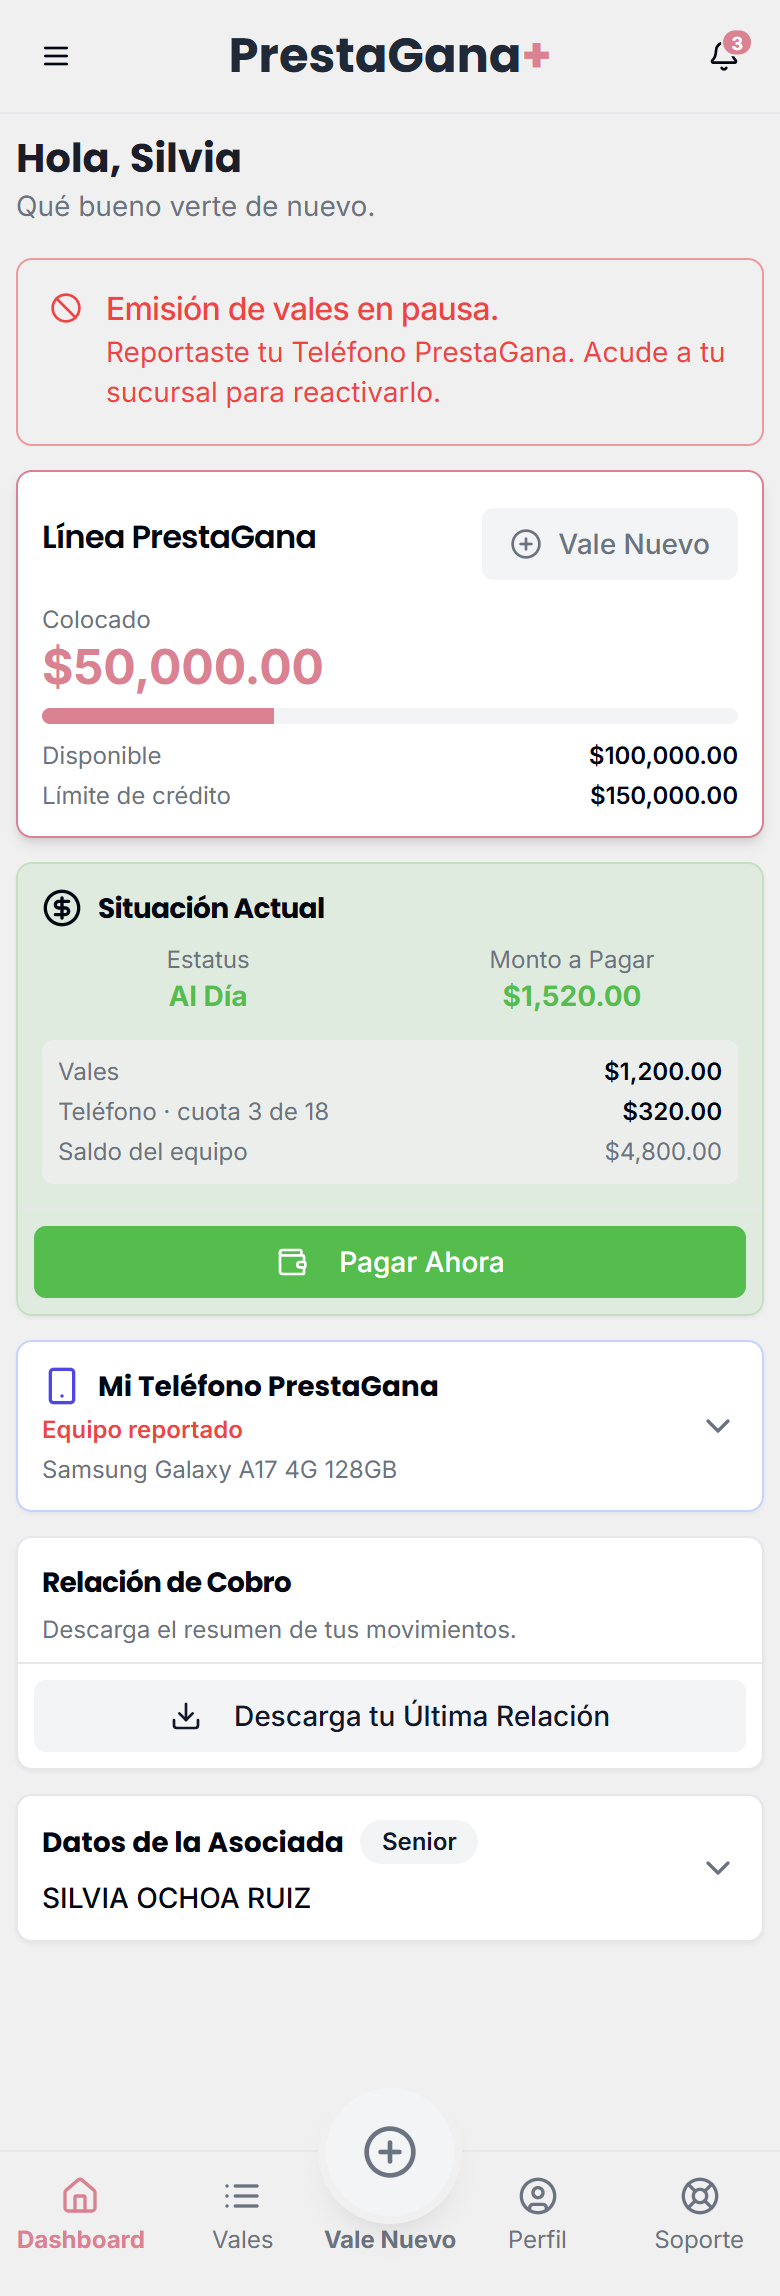
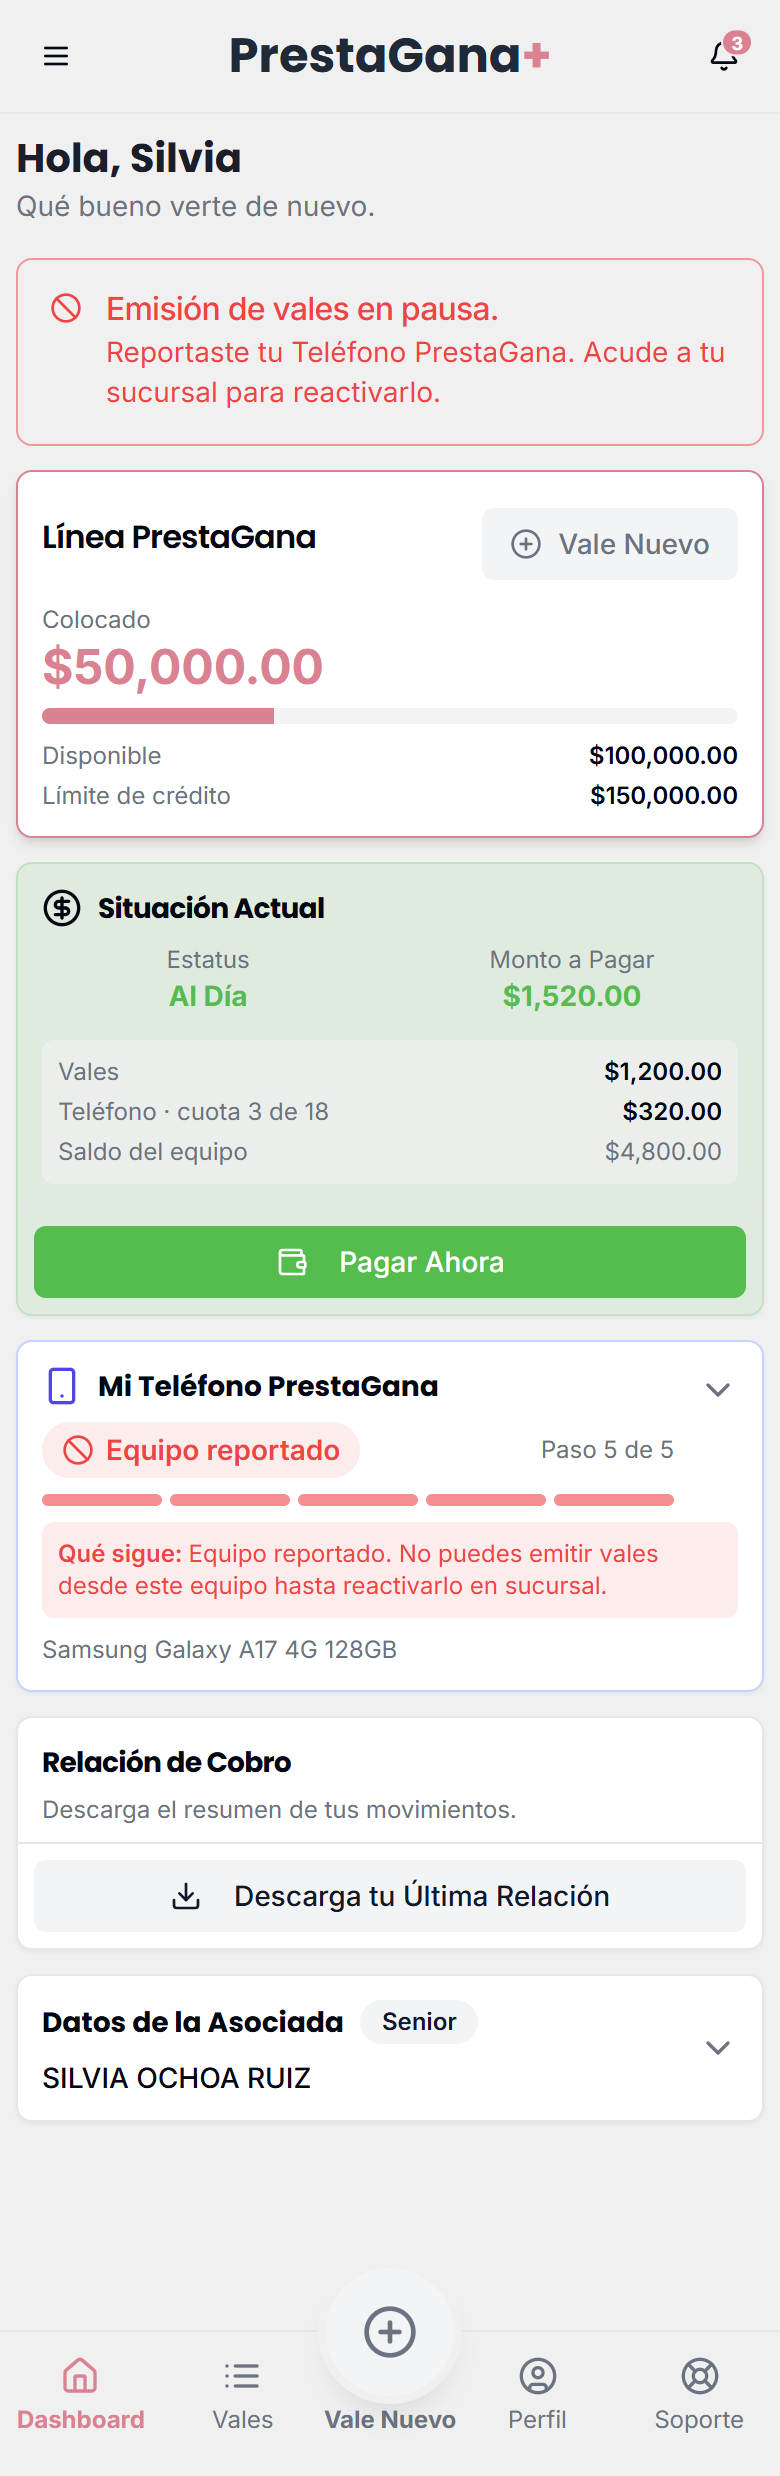
Show the phone stage clearly in the collapsed tracker
- Collapsed card shows the stage in a pill (red when reported), "Paso n
  de 5", a five-segment progress bar, "Que sigue" and the model.
- Expanded card keeps folio, the five steps and the IMEI.
- Tests and spec updated; after screenshots include 1000007 and 1000017.

diff --git a/src/components/phone-tracker.tsx b/src/components/phone-tracker.tsx
@@ -15,9 +15,28 @@ const STEPS: { status: Exclude<PhoneRequestStatus, 'CANCELADO'>; label: string; 
   { status: 'ACTIVO', label: 'Activo', todo: 'Tu equipo está activo. Desde ahora tus vales se emiten desde él.' },
 ];
 
+/** Barra de 5 segmentos: la etapa se ve de un vistazo con la tarjeta colapsada. */
+function StepBar({ currentIndex, danger }: { currentIndex: number; danger: boolean }) {
+  return (
+    <span className="flex gap-1" aria-hidden="true">
+      {STEPS.map((step, index) => (
+        <span
+          key={step.status}
+          className={cn(
+            'h-1.5 flex-1 rounded-full',
+            index > currentIndex && 'bg-indigo-100',
+            index <= currentIndex && (danger ? 'bg-destructive/60' : 'bg-indigo-600'),
+            index === currentIndex && !danger && currentIndex < STEPS.length - 1 && 'bg-indigo-400'
+          )}
+        />
+      ))}
+    </span>
+  );
+}
+
 /**
  * Tarjeta del dashboard: solo aparece si hay solicitud o equipo.
- * Colapsada por default: muestra el resumen (estado actual); al tocarla, el avance completo.
+ * Colapsada por default: etapa, avance, qué sigue y modelo. Al tocarla: folio, los 5 pasos e IMEI.
  */
 export function PhoneTrackerCard({ phoneState }: { phoneState: PhoneState | null }) {
   if (!phoneState || (!phoneState.solicitud && !phoneState.dispositivo)) return null;
@@ -27,99 +46,101 @@ export function PhoneTrackerCard({ phoneState }: { phoneState: PhoneState | null
   const reportedLabel = dispositivo?.estatus === 'REVOCADO' ? 'Equipo desactivado' : 'Equipo reportado';
   // Con equipo entregado el avance llega a Activo aunque la solicitud no lo diga.
   const current: PhoneRequestStatus | undefined = dispositivo ? 'ACTIVO' : solicitud?.estatus;
+  const cancelled = current === 'CANCELADO';
   const currentIndex = STEPS.findIndex((step) => step.status === current);
-
-  let summary: { text: string; tone: 'normal' | 'muted' | 'danger' };
-  if (current === 'CANCELADO') summary = { text: 'Solicitud cancelada', tone: 'muted' };
-  else if (reported) summary = { text: reportedLabel, tone: 'danger' };
-  else if (currentIndex >= 0) summary = { text: `${STEPS[currentIndex].label} · paso ${currentIndex + 1} de ${STEPS.length}`, tone: 'normal' };
-  else summary = { text: 'En proceso', tone: 'muted' };
+  const stageLabel = cancelled ? 'Solicitud cancelada' : reported ? reportedLabel : currentIndex >= 0 ? STEPS[currentIndex].label : 'En proceso';
 
   return (
     <Card className="shadow-sm border-indigo-200" data-testid="phone-tracker">
       <Collapsible>
         <CollapsibleTrigger
-          className="group flex min-h-11 w-full items-center justify-between gap-3 rounded-lg p-3 text-left focus-visible:outline-none focus-visible:ring-2 focus-visible:ring-ring"
+          className="group flex min-h-11 w-full items-start justify-between gap-3 rounded-lg p-3 pb-2 text-left focus-visible:outline-none focus-visible:ring-2 focus-visible:ring-ring"
           data-testid="phone-tracker-toggle"
         >
-          <span className="min-w-0 space-y-1">
+          <span className="min-w-0 flex-1 space-y-2">
             <span className="flex items-center gap-2 font-headline text-sm font-bold">
               <Smartphone className="h-5 w-5 flex-shrink-0 text-indigo-600" />
               Mi Teléfono PrestaGana
             </span>
-            <span
-              className={cn(
-                'block text-xs',
-                summary.tone === 'normal' && 'font-semibold text-indigo-900',
-                summary.tone === 'muted' && 'text-muted-foreground',
-                summary.tone === 'danger' && 'font-semibold text-destructive'
+            <span className="flex items-center justify-between gap-2">
+              <span
+                className={cn(
+                  'inline-flex items-center gap-1.5 rounded-full px-2.5 py-1 text-sm font-semibold',
+                  cancelled && 'bg-muted text-muted-foreground',
+                  reported && 'bg-destructive/10 text-destructive',
+                  !cancelled && !reported && 'bg-indigo-100 text-indigo-900'
+                )}
+              >
+                {cancelled && <XCircle className="h-4 w-4" />}
+                {reported && <Ban className="h-4 w-4" />}
+                {!cancelled && !reported && currentIndex === STEPS.length - 1 && <Check className="h-4 w-4" />}
+                <span data-testid="phone-tracker-summary">{stageLabel}</span>
+              </span>
+              {!cancelled && currentIndex >= 0 && (
+                <span className="flex-shrink-0 text-xs text-muted-foreground" data-testid="phone-tracker-step">
+                  Paso {currentIndex + 1} de {STEPS.length}
+                </span>
               )}
-              data-testid="phone-tracker-summary"
-            >
-              {summary.text}
             </span>
-            {dispositivo && <span className="block truncate text-xs text-muted-foreground">{dispositivo.modelo}</span>}
+            {!cancelled && currentIndex >= 0 && <StepBar currentIndex={currentIndex} danger={reported} />}
           </span>
-          <ChevronDown className="h-5 w-5 flex-shrink-0 text-muted-foreground transition-transform duration-200 group-data-[state=open]:rotate-180" />
+          <ChevronDown className="mt-0.5 h-5 w-5 flex-shrink-0 text-muted-foreground transition-transform duration-200 group-data-[state=open]:rotate-180" />
         </CollapsibleTrigger>
-        <CollapsibleContent className="overflow-hidden data-[state=closed]:animate-collapsible-up data-[state=open]:animate-collapsible-down">
-          <div className="space-y-3 p-3 pt-0">
-            {solicitud && <p className="text-xs text-muted-foreground">Folio {solicitud.folio}</p>}
-            {current === 'CANCELADO' ? (
-              <p className="flex items-start gap-2 text-xs text-muted-foreground" data-testid="phone-tracker-cancelled">
-                <XCircle className="h-4 w-4 flex-shrink-0 text-destructive" />
-                Tu solicitud fue cancelada. Si quieres el equipo, puedes solicitarlo de nuevo desde Vale Nuevo → Préstamo Personal.
+
+        {/* Siempre visible: lo que la asociada tiene que hacer y qué equipo es. */}
+        <div className="space-y-2 px-3 pb-3">
+          {cancelled ? (
+            <p className="text-xs text-muted-foreground" data-testid="phone-tracker-cancelled">
+              Si quieres el equipo, puedes solicitarlo de nuevo desde Vale Nuevo → Préstamo Personal.
+            </p>
+          ) : reported ? (
+            <p className="rounded-md bg-destructive/10 p-2 text-xs text-destructive" data-testid="phone-reported">
+              <span className="font-semibold">Qué sigue: </span>
+              {reportedLabel}. No puedes emitir vales desde este equipo hasta reactivarlo en sucursal.
+            </p>
+          ) : (
+            currentIndex >= 0 && (
+              <p className="rounded-md bg-indigo-50 p-2 text-xs text-indigo-900" data-testid="phone-tracker-todo">
+                <span className="font-semibold">Qué sigue: </span>
+                {STEPS[currentIndex].todo}
               </p>
-            ) : (
-              <>
-                <ol className="space-y-1.5">
-                  {STEPS.map((step, index) => {
-                    const done = index < currentIndex;
-                    const active = index === currentIndex;
-                    return (
-                      <li
-                        key={step.status}
-                        aria-current={active ? 'step' : undefined}
-                        data-testid={active ? 'phone-tracker-current' : undefined}
-                        className={cn('flex items-center gap-2 text-xs', active ? 'font-semibold text-indigo-900' : 'text-muted-foreground')}
+            )
+          )}
+          {dispositivo && <p className="truncate text-xs text-muted-foreground">{dispositivo.modelo}</p>}
+        </div>
+
+        <CollapsibleContent className="overflow-hidden data-[state=closed]:animate-collapsible-up data-[state=open]:animate-collapsible-down">
+          <div className="space-y-3 border-t p-3" data-testid="phone-tracker-details">
+            {solicitud && <p className="text-xs text-muted-foreground">Folio {solicitud.folio}</p>}
+            {!cancelled && (
+              <ol className="space-y-1.5">
+                {STEPS.map((step, index) => {
+                  const done = index < currentIndex;
+                  const active = index === currentIndex;
+                  return (
+                    <li
+                      key={step.status}
+                      aria-current={active ? 'step' : undefined}
+                      data-testid={active ? 'phone-tracker-current' : undefined}
+                      className={cn('flex items-center gap-2 text-xs', active ? 'font-semibold text-indigo-900' : 'text-muted-foreground')}
+                    >
+                      <span
+                        className={cn(
+                          'flex h-5 w-5 flex-shrink-0 items-center justify-center rounded-full border text-[10px]',
+                          done && 'border-indigo-600 bg-indigo-600 text-white',
+                          active && 'border-indigo-600 bg-indigo-100 text-indigo-900 ring-2 ring-indigo-300',
+                          !done && !active && 'border-muted-foreground/40'
+                        )}
                       >
-                        <span
-                          className={cn(
-                            'flex h-5 w-5 flex-shrink-0 items-center justify-center rounded-full border text-[10px]',
-                            done && 'border-indigo-600 bg-indigo-600 text-white',
-                            active && 'border-indigo-600 bg-indigo-100 text-indigo-900 ring-2 ring-indigo-300',
-                            !done && !active && 'border-muted-foreground/40'
-                          )}
-                        >
-                          {done ? <Check className="h-3 w-3" /> : index + 1}
-                        </span>
-                        {step.label}
-                      </li>
-                    );
-                  })}
-                </ol>
-                {currentIndex >= 0 && !reported && (
-                  <p className="rounded-md bg-indigo-50 p-2 text-xs text-indigo-900" data-testid="phone-tracker-todo">
-                    <span className="font-semibold">Qué sigue: </span>
-                    {STEPS[currentIndex].todo}
-                  </p>
-                )}
-                {/* Equipo reportado o revocado: el "Qué sigue" explica que no se emite hasta reactivarlo. */}
-                {reported && (
-                  <p className="flex items-start gap-2 rounded-md bg-destructive/10 p-2 text-xs text-destructive" data-testid="phone-reported">
-                    <Ban className="h-4 w-4 flex-shrink-0" />
-                    <span>
-                      <span className="font-semibold">Qué sigue: </span>
-                      {reportedLabel}. No puedes emitir vales desde este equipo hasta reactivarlo en sucursal.
-                    </span>
-                  </p>
-                )}
-              </>
+                        {done ? <Check className="h-3 w-3" /> : index + 1}
+                      </span>
+                      {step.label}
+                    </li>
+                  );
+                })}
+              </ol>
             )}
-            {/* El modelo ya está en el resumen; aquí solo el IMEI. */}
-            {dispositivo && (
-              <p className="text-xs text-muted-foreground">IMEI terminación {dispositivo.ultimos4Imei}</p>
-            )}
+            {dispositivo && <p className="text-xs text-muted-foreground">IMEI terminación {dispositivo.ultimos4Imei}</p>}
           </div>
         </CollapsibleContent>
       </Collapsible>

diff --git a/tests/e2e/08-dashboard-estados.spec.ts b/tests/e2e/08-dashboard-estados.spec.ts
@@ -130,10 +130,13 @@ test.describe('Mi Teléfono PrestaGana', () => {
     await page.goto('/');
     const toggle = page.getByTestId('phone-tracker-toggle');
     await expect(toggle).toHaveAttribute('aria-expanded', 'false');
-    await expect(toggle.getByTestId('phone-tracker-summary')).toHaveText('Activo · paso 5 de 5');
-    await expect(toggle).toContainText('Samsung Galaxy A17');
+    await expect(toggle.getByTestId('phone-tracker-summary')).toHaveText('Activo');
+    await expect(toggle.getByTestId('phone-tracker-step')).toHaveText('Paso 5 de 5');
+    await expect(page.getByTestId('phone-tracker')).toContainText('Samsung Galaxy A17');
     expect((await toggle.boundingBox())!.height).toBeGreaterThanOrEqual(44);
-    await expect(page.getByTestId('phone-tracker-todo')).toHaveCount(0);
+    // El qué sigue se ve colapsada; el detalle de pasos no.
+    await expect(page.getByTestId('phone-tracker-todo')).toBeVisible();
+    await expect(page.getByTestId('phone-tracker-details')).toHaveCount(0);
 
     await toggle.click();
     await expect(toggle).toHaveAttribute('aria-expanded', 'true');

diff --git a/tests/e2e/02-solicitud.spec.ts b/tests/e2e/02-solicitud.spec.ts
@@ -28,7 +28,8 @@ test.describe('Solicitud del teléfono', () => {
     await page.goto('/');
     const tracker = page.getByTestId('phone-tracker');
     await expect(tracker).toBeVisible();
-    await expect(tracker.getByTestId('phone-tracker-summary')).toHaveText('Solicitado · paso 1 de 5');
+    await expect(tracker.getByTestId('phone-tracker-summary')).toHaveText('Solicitado');
+    await expect(tracker.getByTestId('phone-tracker-step')).toHaveText('Paso 1 de 5');
     await openPhoneTracker(page);
     await expect(tracker.getByTestId('phone-tracker-current')).toHaveText(/Solicitado/);
     await expect(tracker.getByTestId('phone-tracker-todo')).toContainText('Transfiere el enganche a la CLABE de tu línea. Se registra automáticamente.');

diff --git a/docs/specs/dashboard-estados.md b/docs/specs/dashboard-estados.md
@@ -34,8 +34,8 @@ Asociada demo 1000013.
 - **Cambio de alcance (pedido del dueño):** la tarjeta "Nivel" se quita. El nivel pasa a un badge junto al título de la tarjeta colapsada, solo con "Senior" o "Junior" (se quita el prefijo "Nivel " que manda la API). Si la API no manda nivel, no hay badge.
 
 ## 4b. "Mi Teléfono PrestaGana" desplegable (pedido del dueño)
-- Por default **colapsada**: título, resumen del estado actual ("{paso} · paso n de 5", "Equipo reportado"/"Equipo desactivado" o "Solicitud cancelada") y el modelo si ya hay equipo. Chevron a la derecha.
-- Al tocarla se expande y muestra lo de hoy: folio, avance de 5 pasos, "Qué sigue" e IMEI.
+- Por default **colapsada**, pero con la etapa bien visible: título, etapa actual en una píldora ("Solicitado"… "Activo", "Equipo reportado"/"Equipo desactivado" en rojo o "Solicitud cancelada"), "Paso n de 5", barra de avance de 5 segmentos, el "Qué sigue" y el modelo si ya hay equipo. Chevron a la derecha.
+- Al tocarla se expande y muestra el detalle: folio, los 5 pasos e IMEI.
 - Mismo patrón que "Datos de la Asociada": `Collapsible`, `aria-expanded`, área táctil ≥44px, animación.
 
 ## 5. Pruebas (DEMO_MODE=true, Playwright, 390x844)
